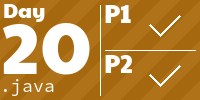
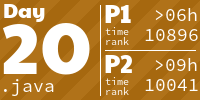
2024 day 20 complete

diff --git a/src/main/java/fr/home/mikedev/aoc2024/Main20.java b/src/main/java/fr/home/mikedev/aoc2024/Main20.java
@@ -1,12 +1,26 @@
 package fr.home.mikedev.aoc2024;
 
 import java.io.BufferedReader;
+import java.util.ArrayList;
+import java.util.HashMap;
+import java.util.List;
+import java.util.Map;
 
 import fr.home.mikedev.common.MainDay;
+import fr.home.mikedev.common.Pair;
 
 public class Main20 extends MainDay 
 {
-
+	int matrixSize = 141;
+	char[][] puzzleMatrix = new char[matrixSize][matrixSize];
+	Pair<Integer> startPoint;
+	Pair<Integer> endPoint;
+	Pair<Integer> current;
+	Map<Pair<Integer>, String> walls;
+	Map<Pair<Integer>, String> paths;
+	List<Pair<Integer>> uniquePath;
+	Map<Integer, List<Pair<Integer>>> path;
+	
 	public Main20(String title, String year) {super(title, year, "20");}
 	
 	public void retrieveData()
@@ -14,26 +28,164 @@ public class Main20 extends MainDay
 		String line = null;	
 		try(BufferedReader reader = this.getReader())
 		{
+			int l = 0;
             while((line = reader.readLine()) != null)
             {
-                log(line);
+            	for (int c = 0; c < line.length(); c++)
+                	if (line.charAt(c) == '#') walls.put(Pair.<Integer>builder().v1(l).v2(c).build(), "#");
+                	else if (line.charAt(c) == '.') paths.put(Pair.<Integer>builder().v1(l).v2(c).build(), ".");
+                	else if (line.charAt(c) == 'S')
+                	{
+                		startPoint = Pair.<Integer>builder().v1(l).v2(c).build();
+                		paths.put(Pair.<Integer>builder().v1(l).v2(c).build(), ".");
+                	}
+                	else if (line.charAt(c) == 'E')
+                	{
+                		endPoint = Pair.<Integer>builder().v1(l).v2(c).build();
+                		paths.put(Pair.<Integer>builder().v1(l).v2(c).build(), ".");
+                	}
+                l++;
             }
+            current = startPoint.clone();
+            current.setO(">");
+            rebuildMatrix();
 		}
 		catch (Exception ex)
 		{
 			log("retrieveData() : Unable to retrieve data from file");
+			ex.printStackTrace();
 		}
 	}
 	
 	public void doPart1()
 	{
+		walls = new HashMap<Pair<Integer>, String>();
+		paths = new HashMap<Pair<Integer>, String>();
+
 		retrieveData();
-		displayResultPart1(0);
+		
+		path = new HashMap<Integer, List<Pair<Integer>>>();
+		buildUniquePath();
+		//log(MatrixUtils.matrixToString(puzzleMatrix));
+		
+		int fullDistance = distance(startPoint, endPoint);
+		log("FullDistance = " + fullDistance);
+		
+		int count = 0;
+		int minGain = 100;
+		for (Pair<Integer> p0 : uniquePath)
+		{
+			// TOP
+			Pair<Integer> p1 = Pair.<Integer>builder().v1(p0.getV1()-1).v2(p0.getV2()).build();
+			Pair<Integer> p2 = Pair.<Integer>builder().v1(p0.getV1()-2).v2(p0.getV2()).build();
+			if (isValidShortcut(startPoint, p1, p2))if ((distance(p0, p2)-2) >= minGain) count++;
+
+			//RIGHT
+			p1 = Pair.<Integer>builder().v1(p0.getV1()).v2(p0.getV2()+1).build();
+			p2 = Pair.<Integer>builder().v1(p0.getV1()).v2(p0.getV2()+2).build();
+			if (isValidShortcut(startPoint, p1, p2)) if ((distance(p0, p2)-2) >= minGain) count++;
+			
+			//BOTTOM
+			p1 = Pair.<Integer>builder().v1(p0.getV1()+1).v2(p0.getV2()).build();
+			p2 = Pair.<Integer>builder().v1(p0.getV1()+2).v2(p0.getV2()).build();
+			if (isValidShortcut(startPoint, p1, p2)) if ((distance(p0, p2)-2) >= minGain) count++; 
+			
+			//LEFT
+			p1 = Pair.<Integer>builder().v1(p0.getV1()).v2(p0.getV2()-1).build();
+			p2 = Pair.<Integer>builder().v1(p0.getV1()).v2(p0.getV2()-2).build();
+			if (isValidShortcut(startPoint, p1, p2)) if ((distance(p0, p2)-2) >= minGain) count++;
+		}
+				
+		displayResultPart1(count); // 1404
 	}
 	
 	public void doPart2()
 	{
 		//retrieveData();
-		displayResultPart2(0);
+		
+		int fullDistance = distance(startPoint, endPoint);
+		log("FullDistance = " + fullDistance);
+		int count = 0;
+		int minGain = 100;
+		for (Pair<Integer> p0 : uniquePath)
+		{
+			for (Pair<Integer> p2 : uniquePath)
+			{
+				String pathString = paths.get(p2);
+				if (pathString != null)
+				{
+					int gridDistance = distanceGrid(p0, p2);
+					if (gridDistance <= 20)
+					{
+						int pathDistance = distance(p0, p2);
+						if ((pathDistance-gridDistance) >= minGain) count++;
+					}
+				}
+			}
+		}
+		
+		displayResultPart2(count);
+	}
+	
+	void buildUniquePath()
+	{
+		uniquePath = new ArrayList<Pair<Integer>>();
+		uniquePath.add(startPoint);
+		
+		Pair<Integer> nextP;
+		nextP = nextPoint(startPoint);
+		while(nextP != null) 
+		{
+			uniquePath.add(nextP);
+			nextP = nextPoint(nextP);
+		}
+		path.put(0, uniquePath);
+	}
+	
+	Pair<Integer> nextPoint(Pair<Integer> p)
+	{
+		Pair<Integer> nextP = Pair.<Integer>builder().v1(p.getV1()-1).v2(p.getV2()).build();
+		if (paths.get(nextP) != null && paths.get(nextP).equals(".") && !uniquePath.contains(nextP)) return nextP;
+		
+		nextP = Pair.<Integer>builder().v1(p.getV1()).v2(p.getV2()+1).build();
+		if (paths.get(nextP) != null && paths.get(nextP).equals(".") && !uniquePath.contains(nextP)) return nextP;
+		
+		nextP = Pair.<Integer>builder().v1(p.getV1()+1).v2(p.getV2()).build();
+		if (paths.get(nextP) != null && paths.get(nextP).equals(".") && !uniquePath.contains(nextP)) return nextP;
+		
+		nextP = Pair.<Integer>builder().v1(p.getV1()).v2(p.getV2()-1).build();
+		if (paths.get(nextP) != null && paths.get(nextP).equals(".") && !uniquePath.contains(nextP)) return nextP;
+		
+		return null;
+	}
+	
+	boolean isValidShortcut(Pair<Integer> p0, Pair<Integer> p1, Pair<Integer> p2)
+	{
+		
+		return (distance(p0, p2) > 0 && paths.containsKey(p0) && walls.containsKey(p1) && paths.containsKey(p2));
+	}
+		
+	int distance(Pair<Integer> p1, Pair<Integer> p2)
+	{
+		int p1Loc = uniquePath.indexOf(p1);
+		int p2Loc = uniquePath.indexOf(p2);
+		return p2Loc-p1Loc;
+	}
+	
+	int distanceGrid(Pair<Integer> p1, Pair<Integer> p2)
+	{
+		return Math.abs(p1.getV1()-p2.getV1()) + Math.abs(p1.getV2()-p2.getV2());
+	}
+	
+	void rebuildMatrix()
+	{
+	    for (int i = 0 ; i < matrixSize; i++)
+	        for (int j = 0; j < matrixSize; j++)
+	            puzzleMatrix[i][j] = 'X';
+	    for (Pair<Integer> w : walls.keySet()) puzzleMatrix[w.getV1()][w.getV2()] = '#';
+	    for (Pair<Integer> b : paths.keySet()) puzzleMatrix[b.getV1()][b.getV2()] = '.';
+	    
+	    puzzleMatrix[startPoint.getV1()][startPoint.getV2()] = 'S';
+	    puzzleMatrix[endPoint.getV1()][endPoint.getV2()] = 'E';
 	}
 }

diff --git a/src/main/java/fr/home/mikedev/aoc2024/MainAoc2024.java b/src/main/java/fr/home/mikedev/aoc2024/MainAoc2024.java
@@ -48,12 +48,12 @@ public class MainAoc2024
 		Main17 m17 = new Main17("Chronospatial Computer", "2024");
 		m17.doPartAll();
 		Main18 m18 = new Main18("RAM Run", "2024");
-		m18.doPartAll();*/
-		Main19 m19 = new Main19("", "2024");
-		m19.doPartAll();
-		/*Main20 m20 = new Main20("", "2024");
+		m18.doPartAll();
+		Main19 m19 = new Main19("Linen Layout", "2024");
+		m19.doPartAll();*/
+		Main20 m20 = new Main20("Race Condition", "2024");
 		m20.doPartAll();
-		Main21 m21 = new Main21("", "2024");
+		/*Main21 m21 = new Main21("", "2024");
 		m21.doPartAll();
 		Main22 m22 = new Main22("", "2024");
 		m22.doPartAll();

diff --git a/README.md b/README.md
@@ -4,7 +4,7 @@
 
 <!-- AOC TILES BEGIN -->
 <h1 align="center">
-  2024 - 38 ⭐ - Java
+  2024 - 40 ⭐ - Java
 </h1>
 <a href="src/main/java/fr/home/mikedev/aoc2024/Main01.java">
   <img src=".aoc_tiles/tiles/2024/01.png" width="161px">
@@ -62,6 +62,9 @@
 </a>
 <a href="src/main/java/fr/home/mikedev/aoc2024/Main19.java">
   <img src=".aoc_tiles/tiles/2024/19.png" width="161px">
+</a>
+<a href="src/main/java/fr/home/mikedev/aoc2024/Main20.java">
+  <img src=".aoc_tiles/tiles/2024/20.png" width="161px">
 </a>
 <h1 align="center">
   2023 - 6 ⭐ - Java
